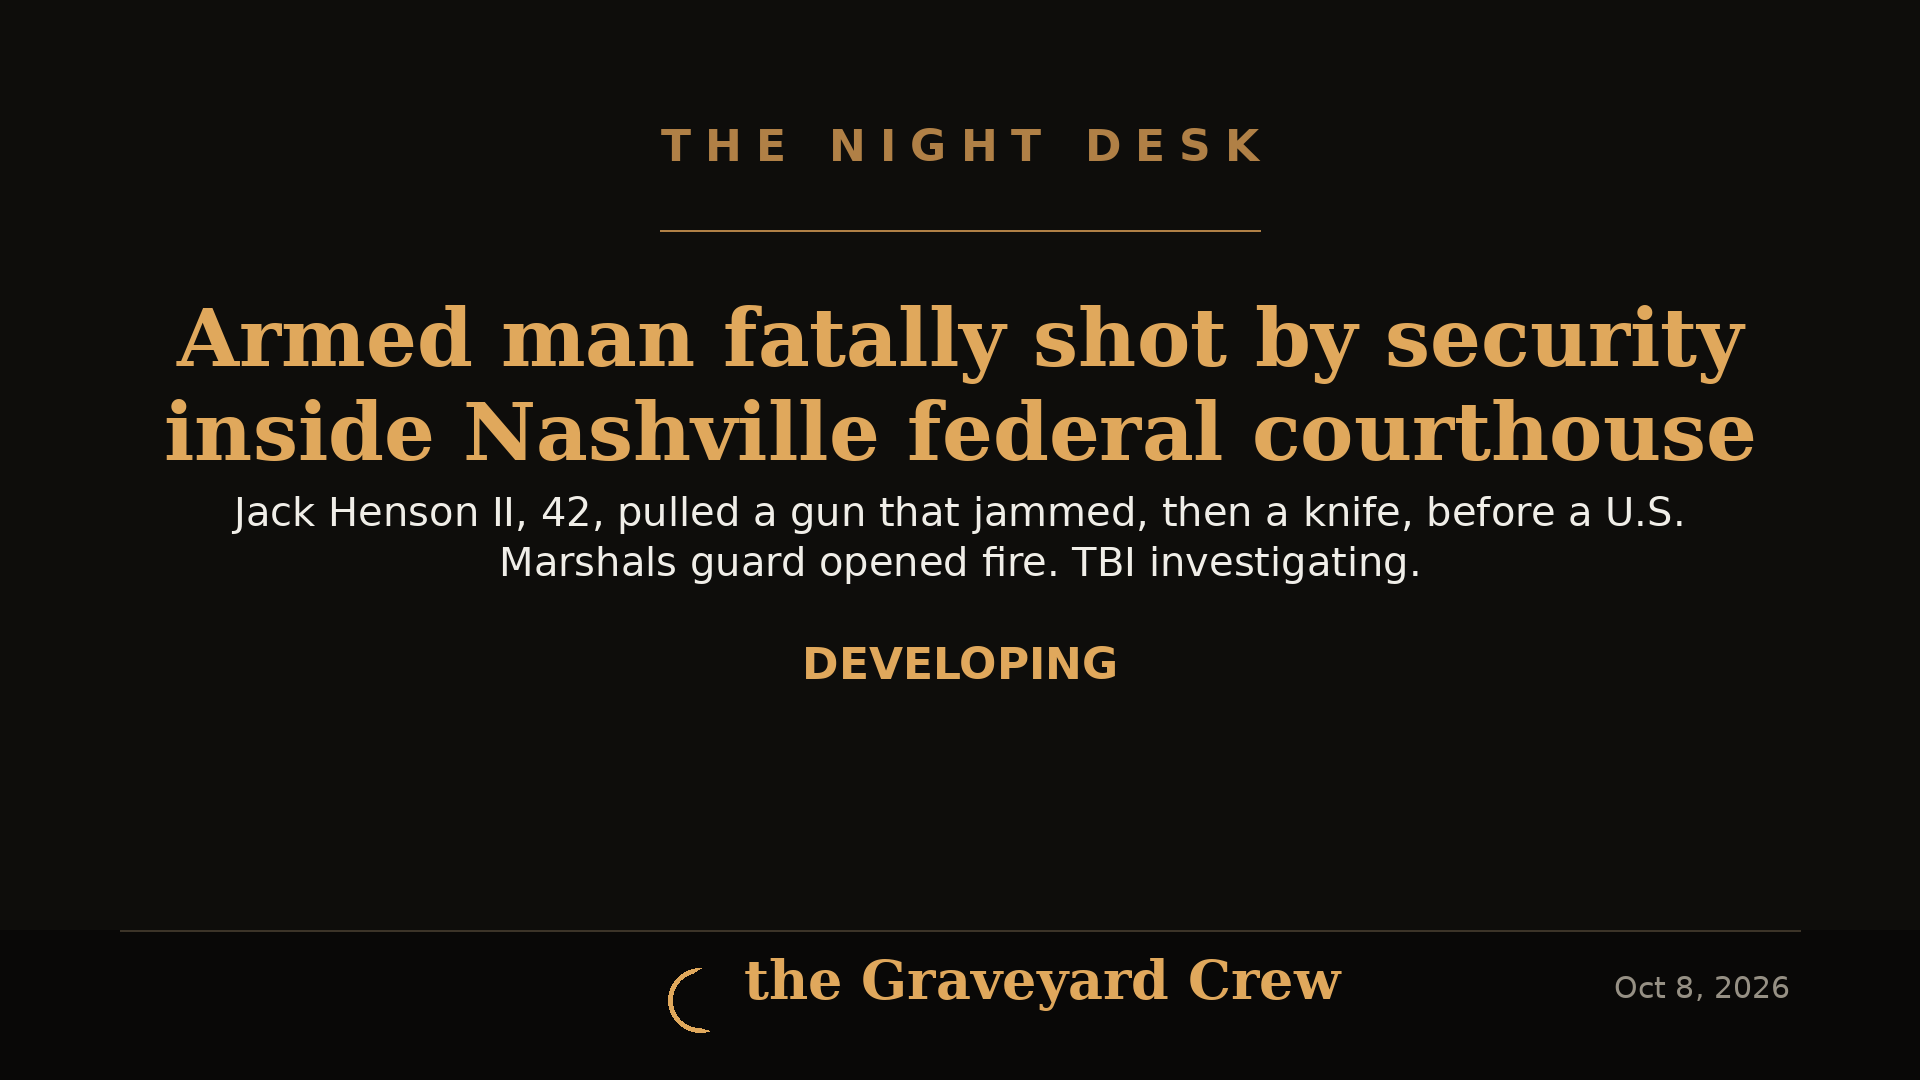
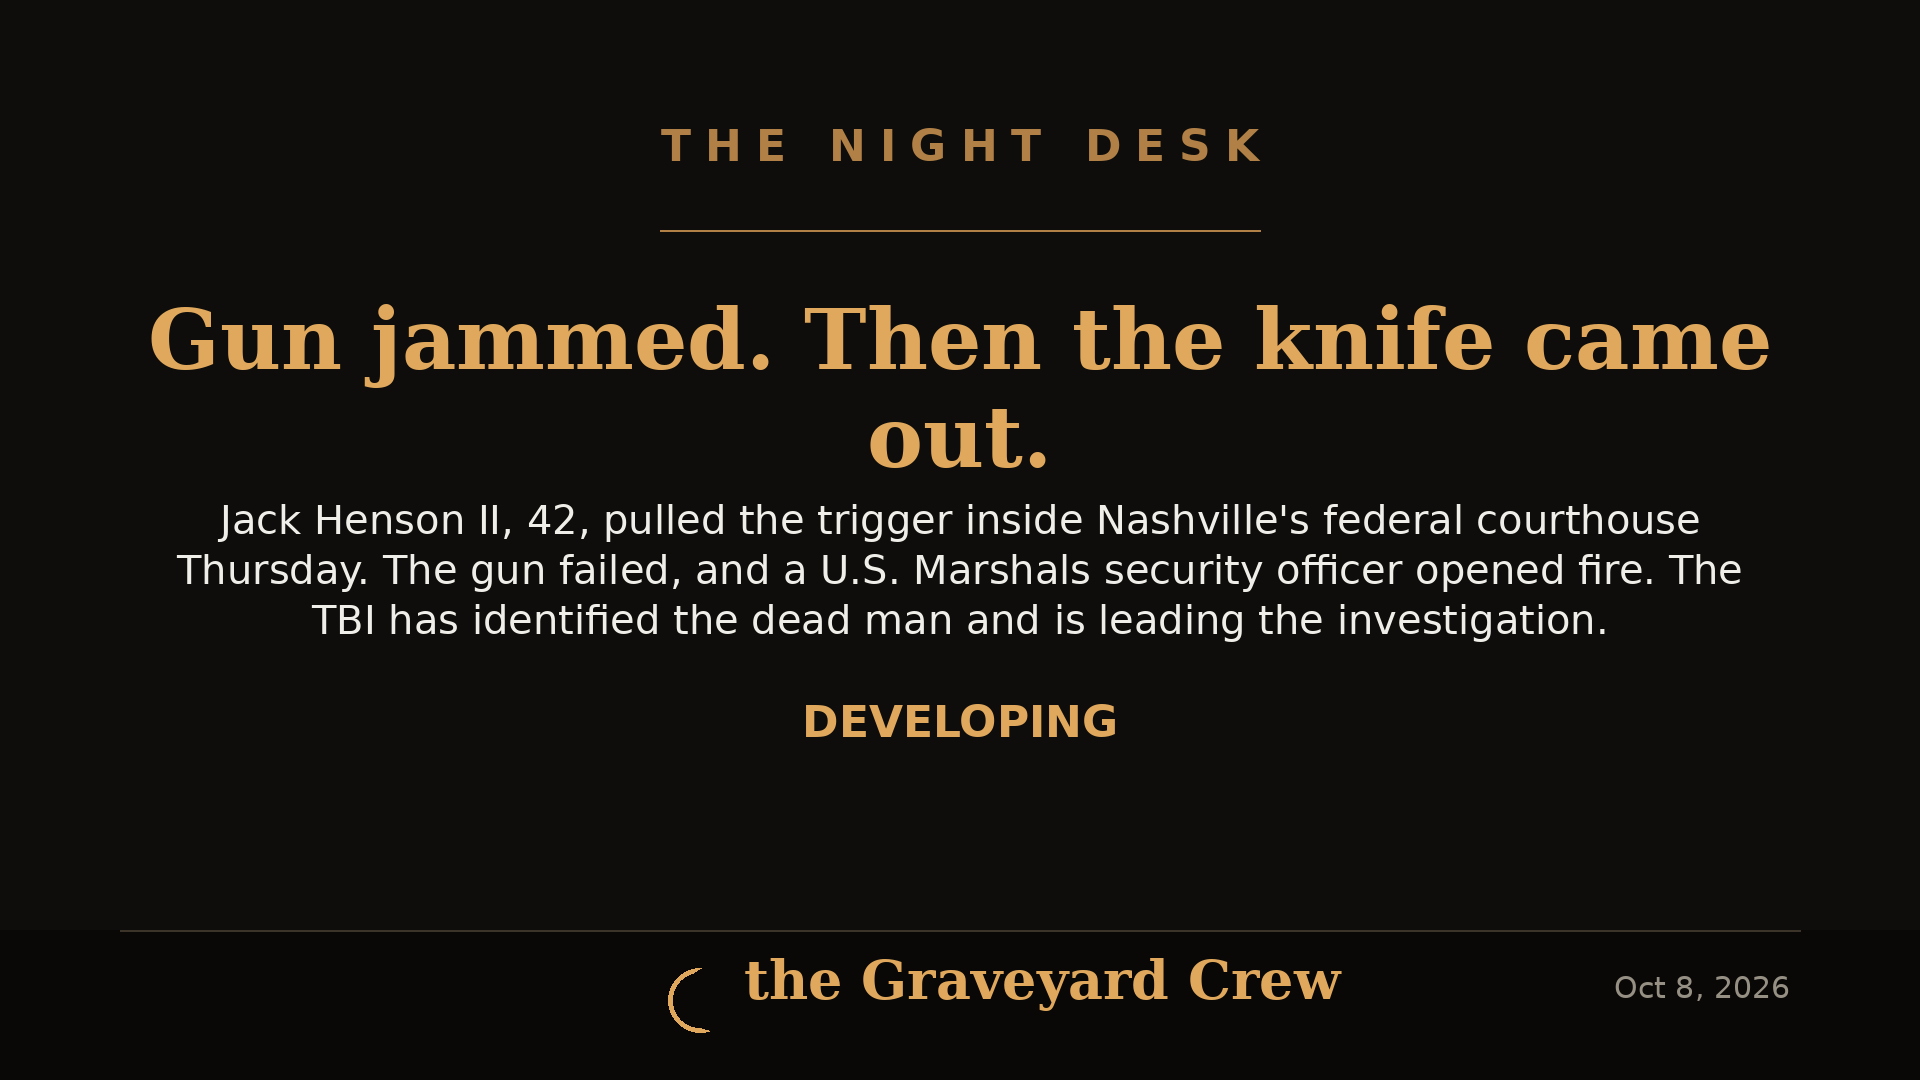
new articles: smyrna backfills cornell nashville

Changed region(s): [[0.0625, 0.275, 0.9375, 0.7028]]

diff --git a/articles/cornell-chi-phi-case-developments.html b/articles/cornell-chi-phi-case-developments.html
@@ -1,0 +1,54 @@
+<!DOCTYPE html>
+<html lang="en">
+<head>
+<meta charset="utf-8">
+<meta name="viewport" content="width=device-width,initial-scale=1">
+<title>Cornell Chi Phi Case: Accuser Says She Was &#x27;Misled,&#x27; DA Stripped of Probe, Yates Tapped for Review &mdash; The Night Desk</title>
+<link rel="stylesheet" href="../assets/css/style.css">
+</head>
+<body>
+<header class="top">
+<!-- AD SLOT: leaderboard -->
+<div class="brand">
+<svg viewBox="0 0 64 64" aria-hidden="true"><circle cx="44" cy="16" r="10" fill="#f5c451"/><circle cx="40" cy="13" r="9" fill="#0b0a08"/><path d="M20 44 L44 44 L40 52 L24 52 Z" fill="#f2b134"/><rect x="31" y="34" width="3" height="10" fill="#8a6a2a"/><ellipse cx="32" cy="55" rx="14" ry="2.5" fill="#2b2318"/></svg>
+<h1>THE NIGHT DESK</h1>
+</div>
+<p class="tagline">News for the Graveyard Crew &mdash; true crime, breaking news, and the stories that keep you up at night.</p>
+<nav><a href="index.html">Latest</a> <a href="about.html">About</a> <a href="https://www.facebook.com/profile.php?id=61594706233219">Facebook Page</a></nav>
+</header>
+<main><!-- AD SLOT: in-article-top -->
+<article class="story">
+<p class="date" style="color:#8f8268;font-size:.85rem;letter-spacing:1px">October 08, 2026</p>
+<h1>Cornell Chi Phi Case: Accuser Says She Was &#x27;Misled,&#x27; DA Stripped of Probe, Yates Tapped for Review</h1>
+<p class="byline">By The Night Desk</p>
+<img class="hero" src="../assets/img/cornell-chi-phi-developments-card.png" alt="Cornell Chi Phi Case: Accuser Says She Was &#x27;Misled,&#x27; DA Stripped of Probe, Yates Tapped for Review"><p class="img-credit">Headline card by The Night Desk</p>
+<h2>What happened</h2>
+<p><strong>ITHACA, N.Y.</strong> — The woman at the center of the Cornell University gang-rape case says she was <strong>&quot;misled&quot;</strong> about the criminal investigation, her lawyer told the Associated Press this week — a probe that, according to her attorney, ended almost as soon as it began with the local district attorney declining to prosecute.</p>
+<p>The case, which began with Jane Doe&#x27;s report to Cornell police in November 2024 and a September 2026 civil lawsuit against seven members of the Chi Phi fraternity, Cornell University, and other defendants, has now exploded into one of the highest-profile campus cases in the country.</p>
+<h2>The DA loses the case</h2>
+<p>After the lawsuit, Tompkins County District Attorney <strong>Matthew Van Houten</strong> said he was reopening the criminal investigation. Days later, Gov. <strong>Kathy Hochul</strong> took the case away from him and appointed state Attorney General <strong>Letitia James</strong> as special prosecutor, saying she had lost confidence in the local handling of the case.</p>
+<p>Hochul signed an executive order empowering James with criminal authority to investigate the allegations, present to a grand jury, and ultimately bring charges if warranted.</p>
+<p>Doe&#x27;s attorney, <strong>Thomas Giuffra</strong>, applauded the move, telling reporters he was troubled by Van Houten&#x27;s plan for conducting the reopened investigation — a two-week timeline to a grand jury that Giuffra suggested may have been designed &quot;to go take a dive.&quot;</p>
+<h2>One accused man wants James removed</h2>
+<p>On Wednesday, <strong>one of the men named in Jane Doe&#x27;s lawsuit filed a court petition seeking James&#x27; removal</strong> from the case, arguing she showed bias by posting on social media a few days before her appointment: &quot;What this young woman has been forced to endure is horrific and unacceptable.&quot;</p>
+<p>A spokesperson for James declined to comment.</p>
+<h2>Cornell brings in Sally Yates</h2>
+<p>Separately, Cornell&#x27;s Board of Trustees has appointed <strong>former U.S. Deputy Attorney General Sally Yates</strong> to lead an independent review of the university&#x27;s handling of sexual-assault and sexual-harassment complaints — including its response to Jane Doe&#x27;s allegations, its disciplinary process, and its campus police response.</p>
+<p>The review follows growing student protests. Cornell closed down the Chi Phi campus chapter in 2024 and says it expelled some students and suspended others after a Title IX investigation.</p>
+<h2>Death threats against the accuser</h2>
+<p>Giuffra also told the AP this week that Jane Doe has been <strong>receiving death threats</strong> since the case gained national attention.</p>
+<p>The men named in the lawsuit have denied wrongdoing. Some told investigators the sexual activity was consensual or said they were not involved.</p>
+<h2>What comes next</h2>
+<p>James has not said how long her investigation might take, but suggested it would take months. No criminal charges have been filed. The Night Desk will update this story as the investigation and the removal petition develop.</p>
+<p><em>The Night Desk reports the developments in this case without presuming guilt or innocence — no criminal charges have been filed against any of the accused.</em></p>
+<!-- AD SLOT: in-article-bottom -->
+<p class="source-line">Source: Associated Press &mdash; <a href="https://www.wvlt.tv/2026/10/08/cornell-gang-rape-accuser-has-been-receiving-death-threats-attorney-says/">read the original report</a></p>
+<a class="back" href="../index.html">&larr; Back to latest stories</a>
+</article></main>
+<footer>
+<!-- AD SLOT: footer -->
+<p>&copy; 2026 The Night Desk. Stories first published on our <a href="https://www.facebook.com/profile.php?id=61594706233219">Facebook page</a>.</p>
+<p>Tip the desk: stories develop fast &mdash; check back nightly.</p>
+</footer>
+</body>
+</html>

diff --git a/articles/nashville-federal-courthouse-shooting.html b/articles/nashville-federal-courthouse-shooting.html
@@ -1,0 +1,49 @@
+<!DOCTYPE html>
+<html lang="en">
+<head>
+<meta charset="utf-8">
+<meta name="viewport" content="width=device-width,initial-scale=1">
+<title>Gun Jammed at Nashville Federal Courthouse — Security Opens Fire, Man Killed &mdash; The Night Desk</title>
+<link rel="stylesheet" href="../assets/css/style.css">
+</head>
+<body>
+<header class="top">
+<!-- AD SLOT: leaderboard -->
+<div class="brand">
+<svg viewBox="0 0 64 64" aria-hidden="true"><circle cx="44" cy="16" r="10" fill="#f5c451"/><circle cx="40" cy="13" r="9" fill="#0b0a08"/><path d="M20 44 L44 44 L40 52 L24 52 Z" fill="#f2b134"/><rect x="31" y="34" width="3" height="10" fill="#8a6a2a"/><ellipse cx="32" cy="55" rx="14" ry="2.5" fill="#2b2318"/></svg>
+<h1>THE NIGHT DESK</h1>
+</div>
+<p class="tagline">News for the Graveyard Crew &mdash; true crime, breaking news, and the stories that keep you up at night.</p>
+<nav><a href="index.html">Latest</a> <a href="about.html">About</a> <a href="https://www.facebook.com/profile.php?id=61594706233219">Facebook Page</a></nav>
+</header>
+<main><!-- AD SLOT: in-article-top -->
+<article class="story">
+<p class="date" style="color:#8f8268;font-size:.85rem;letter-spacing:1px">October 08, 2026</p>
+<h1>Gun Jammed at Nashville Federal Courthouse — Security Opens Fire, Man Killed</h1>
+<p class="byline">By The Night Desk</p>
+<img class="hero" src="../assets/img/nashville-courthouse-shooting-card.png" alt="Gun Jammed at Nashville Federal Courthouse — Security Opens Fire, Man Killed"><p class="img-credit">Headline card by The Night Desk</p>
+<h2>What happened</h2>
+<p><strong>NASHVILLE, Tenn.</strong> — A man armed with a pistol and knife was fatally shot by a security officer Thursday just inside the busy entrance of the federal courthouse in downtown Nashville, authorities said.</p>
+<p>The shooting took place at the downtown <strong>Fred D. Thompson U.S. Courthouse and Federal Building</strong>, 719 Church Street, around <strong>9:30 a.m. CT</strong>.</p>
+<p>According to Metro Nashville Police spokesperson <strong>Don Aaron</strong>, the 42-year-old man entered the lobby of the courthouse, pulled a gun and pulled the trigger. The gun jammed — so the man pulled out a knife instead.</p>
+<p>A security guard, who Aaron said worked for the U.S. Marshals Service and was manning the checkpoint at the public entrance, opened fire on the man.</p>
+<h2>The man is identified</h2>
+<p>The <strong>Tennessee Bureau of Investigation</strong> identified the man as <strong>42-year-old Jack Henson II</strong>. No hometown was released, though police earlier said he was from out of state.</p>
+<p>First responders transported him to Vanderbilt University Medical Center in critical condition. He was later pronounced dead. No other injuries were reported.</p>
+<h2>What we know — and what we don&#x27;t</h2>
+<p>The U.S. Marshals Service said the armed man <strong>charged at the security guard</strong>, a USMS contracted security officer. &quot;The CSO gave orders to stop but the assailant did not,&quot; the agency said. &quot;Upon the assailant&#x27;s refusal to stop, the CSO fired his service weapon, striking the assailant.&quot;</p>
+<p>&quot;He was not a litigant at the courthouse... not on the docket today. He was not there to appear for a judge,&quot; Aaron said. Investigators did not immediately know why he was at the courthouse, and a search of his car found <strong>&quot;nothing threatening.&quot;</strong></p>
+<p>First Assistant U.S. Attorney <strong>Rob McGuire</strong> called the shooting unprecedented: &quot;There have been security instances where a person acts up or acts inappropriately and has to be removed from the premises, but nothing even approaching this kind of situation.&quot;</p>
+<p>The TBI is leading the shooting investigation at the request of the 20th Judicial District Attorney General&#x27;s office and the U.S. Marshals Office. The FBI, ATF, and Metro police are also assisting.</p>
+<p>The Night Desk will update this story as the investigation develops.</p>
+<!-- AD SLOT: in-article-bottom -->
+<p class="source-line">Source: Associated Press &mdash; <a href="https://www.lapost.com/content/1-person-shot-at-federal-courthouse-in-tennessee-police-say">read the original report</a></p>
+<a class="back" href="../index.html">&larr; Back to latest stories</a>
+</article></main>
+<footer>
+<!-- AD SLOT: footer -->
+<p>&copy; 2026 The Night Desk. Stories first published on our <a href="https://www.facebook.com/profile.php?id=61594706233219">Facebook page</a>.</p>
+<p>Tip the desk: stories develop fast &mdash; check back nightly.</p>
+</footer>
+</body>
+</html>

diff --git a/articles/smyrna-murder-suspect-caught-car-breakins.html b/articles/smyrna-murder-suspect-caught-car-breakins.html
@@ -1,0 +1,47 @@
+<!DOCTYPE html>
+<html lang="en">
+<head>
+<meta charset="utf-8">
+<meta name="viewport" content="width=device-width,initial-scale=1">
+<title>Wanted for Murder Since July — Caught Breaking Into Parked Cars &mdash; The Night Desk</title>
+<link rel="stylesheet" href="../assets/css/style.css">
+</head>
+<body>
+<header class="top">
+<!-- AD SLOT: leaderboard -->
+<div class="brand">
+<svg viewBox="0 0 64 64" aria-hidden="true"><circle cx="44" cy="16" r="10" fill="#f5c451"/><circle cx="40" cy="13" r="9" fill="#0b0a08"/><path d="M20 44 L44 44 L40 52 L24 52 Z" fill="#f2b134"/><rect x="31" y="34" width="3" height="10" fill="#8a6a2a"/><ellipse cx="32" cy="55" rx="14" ry="2.5" fill="#2b2318"/></svg>
+<h1>THE NIGHT DESK</h1>
+</div>
+<p class="tagline">News for the Graveyard Crew &mdash; true crime, breaking news, and the stories that keep you up at night.</p>
+<nav><a href="index.html">Latest</a> <a href="about.html">About</a> <a href="https://www.facebook.com/profile.php?id=61594706233219">Facebook Page</a></nav>
+</header>
+<main><!-- AD SLOT: in-article-top -->
+<article class="story">
+<p class="date" style="color:#8f8268;font-size:.85rem;letter-spacing:1px">October 09, 2026</p>
+<h1>Wanted for Murder Since July — Caught Breaking Into Parked Cars</h1>
+<p class="byline">By The Night Desk</p>
+<img class="hero" src="../assets/img/smyrna-murder-suspect-caught-card.png" alt="Wanted for Murder Since July — Caught Breaking Into Parked Cars"><p class="img-credit">Headline card by The Night Desk</p>
+<h2>What happened</h2>
+<p><strong>SMYRNA, Ga.</strong> — A call about car break-ins on Thursday led Smyrna police to a murder suspect who had been on the run since July.</p>
+<p>Officers responded to the <strong>1800 block of Spring Road</strong> after someone reported two people breaking into parked cars. Police arrived within three minutes and caught two men in the act.</p>
+<p>One of the men was <strong>Trey Webb</strong> — a suspect police had been looking for since late July.</p>
+<h2>The July case</h2>
+<p>Webb was wanted in connection with a shooting on <strong>Atlanta Road</strong>. On <strong>July 28</strong>, officers called to a car crash found a man shot inside the vehicle. Investigators identified Webb as the suspect and obtained a warrant for his arrest three days later.</p>
+<p>Webb had been on the run until Thursday.</p>
+<h2>What we know — and what we don&#x27;t</h2>
+<p>Along with his murder warrant, Webb now faces new charges for allegedly breaking into cars.</p>
+<p>Police have not identified the person killed in the July shooting. It is unclear whether the second person seen breaking into cars was arrested or charged alongside Webb. Investigators have not said what led to the July shooting.</p>
+<h2>The takeaway</h2>
+<p>Two months of dodging a murder warrant — ended by a parked car. The Night Desk will update this story as charges are announced.</p>
+<!-- AD SLOT: in-article-bottom -->
+<p class="source-line">Source: FOX 5 Atlanta &mdash; <a href="https://fox5atlanta.com/news/smyrna-police-answer-car-break-in-call-catch-wanted-murder-suspect">read the original report</a></p>
+<a class="back" href="../index.html">&larr; Back to latest stories</a>
+</article></main>
+<footer>
+<!-- AD SLOT: footer -->
+<p>&copy; 2026 The Night Desk. Stories first published on our <a href="https://www.facebook.com/profile.php?id=61594706233219">Facebook page</a>.</p>
+<p>Tip the desk: stories develop fast &mdash; check back nightly.</p>
+</footer>
+</body>
+</html>

diff --git a/index.html b/index.html
@@ -18,6 +18,14 @@
 </header>
 <main><!-- AD SLOT: feed-top -->
 <div class="feed-card">
+<img src="assets/img/smyrna-murder-suspect-caught-card.png" alt="">
+<div class="txt">
+<p class="date">October 09, 2026</p>
+<h2><a href="articles/smyrna-murder-suspect-caught-car-breakins.html">Wanted for Murder Since July — Caught Breaking Into Parked Cars</a></h2>
+<p class="dek">Trey Webb dodged a murder warrant for more than two months. A routine car break-in call in Smyrna, Georgia ended the run in three minutes when officers caught him in the act — and now he faces the warrant plus fresh break-in charges.</p>
+<a class="read" href="articles/smyrna-murder-suspect-caught-car-breakins.html">READ THE STORY &rarr;</a>
+</div></div>
+<div class="feed-card">
 <img src="assets/img/bronx-ice-shooting-scene-2.jpg" alt="">
 <div class="txt">
 <p class="date">October 09, 2026</p>
@@ -40,6 +48,22 @@
 <h2><a href="articles/birchmore-farwell-trial-jury-selection.html">TRIAL WATCH: Ex-Stoughton Detective&#x27;s Federal Murder Trial Nears Start as Jury Selection Enters Day 3</a></h2>
 <p class="dek">Jury selection in the federal murder trial of former Stoughton police detective Matthew Farwell entered its third day Thursday in Boston. He&#x27;s accused of killing pregnant Sandra Birchmore, 23, in 2021 and staging it as suicide.</p>
 <a class="read" href="articles/birchmore-farwell-trial-jury-selection.html">READ THE STORY &rarr;</a>
+</div></div>
+<div class="feed-card">
+<img src="assets/img/cornell-chi-phi-developments-card.png" alt="">
+<div class="txt">
+<p class="date">October 08, 2026</p>
+<h2><a href="articles/cornell-chi-phi-case-developments.html">Cornell Chi Phi Case: Accuser Says She Was &#x27;Misled,&#x27; DA Stripped of Probe, Yates Tapped for Review</a></h2>
+<p class="dek">Jane Doe&#x27;s attorney says the criminal investigation ended almost as soon as it began. The case has been ripped from the local DA and handed to Letitia James as special prosecutor — one accused man now wants her removed — while Cornell brings in former Deputy Attorney General Sally Yates for an independent review.</p>
+<a class="read" href="articles/cornell-chi-phi-case-developments.html">READ THE STORY &rarr;</a>
+</div></div>
+<div class="feed-card">
+<img src="assets/img/nashville-courthouse-shooting-card.png" alt="">
+<div class="txt">
+<p class="date">October 08, 2026</p>
+<h2><a href="articles/nashville-federal-courthouse-shooting.html">Gun Jammed at Nashville Federal Courthouse — Security Opens Fire, Man Killed</a></h2>
+<p class="dek">Jack Henson II, 42, pulled the trigger inside Nashville&#x27;s federal courthouse Thursday morning. The gun failed, he pulled a knife, and a U.S. Marshals contract security officer fatally shot him. The TBI is leading the investigation.</p>
+<a class="read" href="articles/nashville-federal-courthouse-shooting.html">READ THE STORY &rarr;</a>
 </div></div>
 <div class="feed-card">
 <img src="assets/img/ryan-hanafin-custody-card.png" alt="">
